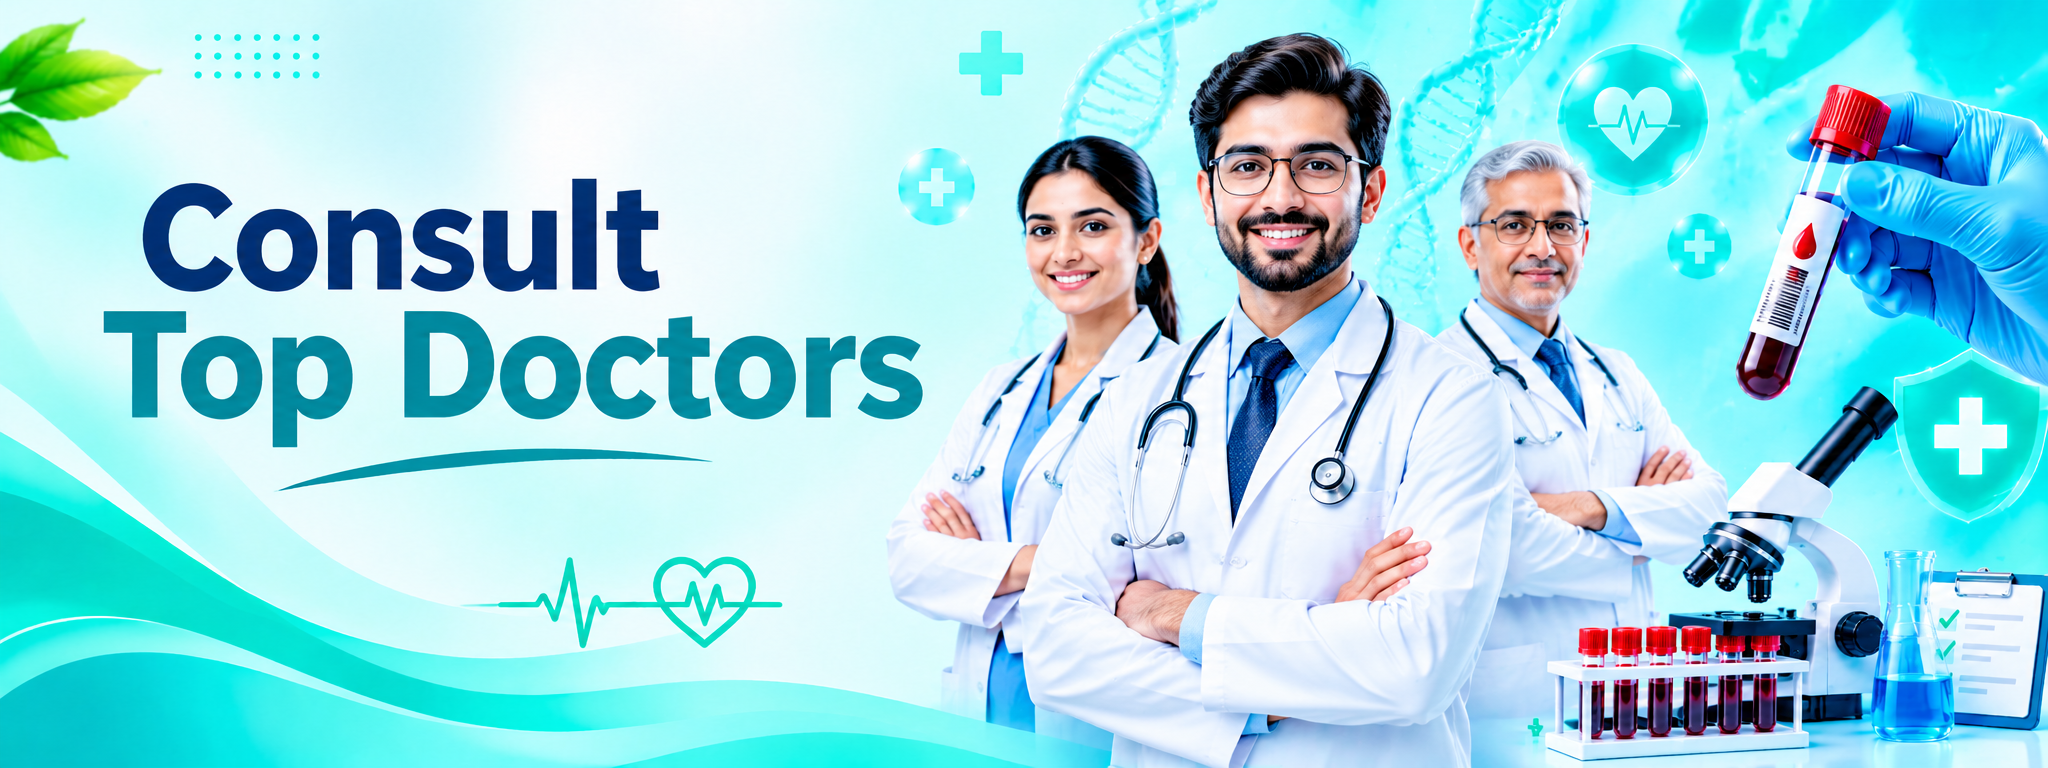
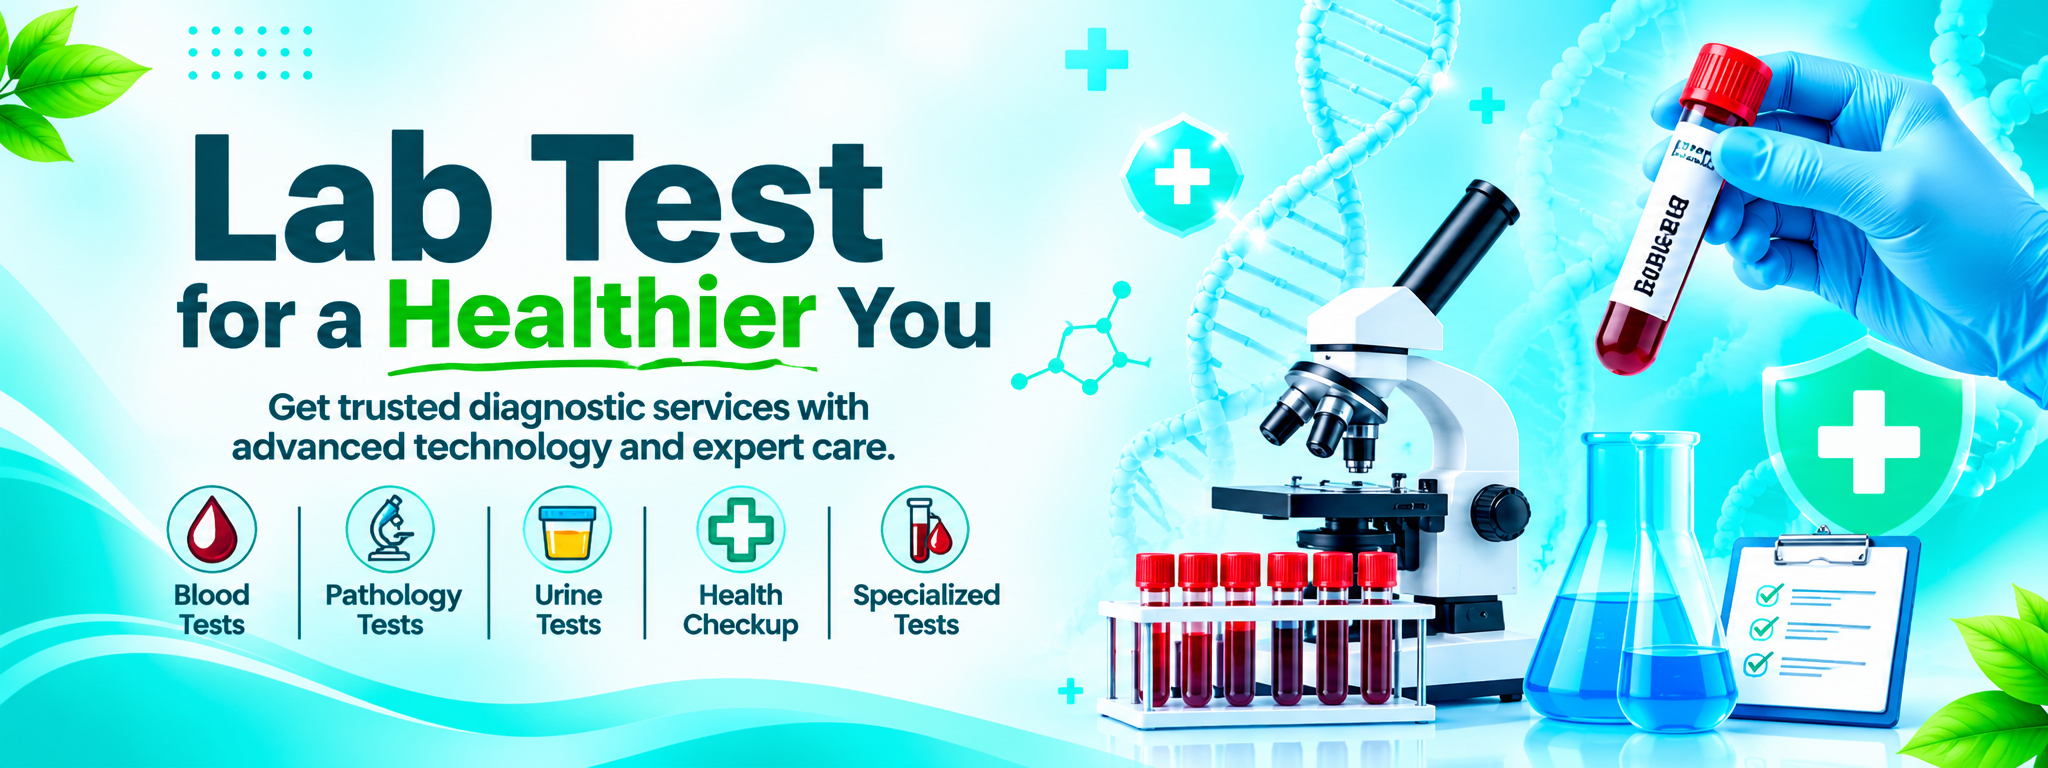
update code

diff --git a/src/pages/Home/HomePage.jsx b/src/pages/Home/HomePage.jsx
@@ -1,4 +1,4 @@
-import React, { useState, useEffect, useRef } from 'react';
+import { useState, useEffect, useRef } from 'react';
 import { Link } from 'react-router-dom';
 import { motion, AnimatePresence } from 'framer-motion';
 import {
@@ -6,13 +6,9 @@ import {
   FaShieldAlt, FaUserMd, FaFlask, FaCapsules, FaCheckCircle
 } from 'react-icons/fa';
 import ProductSlider from '../../components/products/ProductSlider';
-import ProductCard from '../../components/products/ProductCard';
 import QuickViewModal from '../../components/common/QuickViewModal';
 import PopularBrandsSection from '../../components/home/PopularBrandsSection';
 import { useHealthcare } from '../../context/HealthcareContext';
-import { CATEGORIES } from '../Categories/CategoriesPage';
-import { DOCTORS } from '../Doctors/DoctorsPage';
-import { LAB_TESTS } from '../LabTests/LabTestsPage';
 
 // ✅ YAHAN 3 ALAG IMAGES IMPORT KI HAIN
 import HeroImage1 from '../../assets/images/cureonhero-img1.png';
@@ -45,7 +41,7 @@ const SLIDES = [
     ),
     description: 'Genuine medicines and healthcare essentials delivered directly to your doorstep with certified temperature-controlled cold-chain safety.',
     buttonText: 'Shop Medicines',
-    buttonLink: '/products',
+    buttonLink: '/doctors',
     buttonColor: '#159B64',
     bgGradient: 'linear-gradient(90deg, rgba(234, 248, 242, 0.95) 0%, rgba(234, 248, 242, 0.80) 50%, rgba(234, 248, 242, 0) 80%)',
     bgImage: HeroImage1,
@@ -58,7 +54,7 @@ const SLIDES = [
     heading: 'Consult Top Doctors Online Anytime, Anywhere',
     description: 'Connect via encrypted video with experienced physicians, cardiologists, and pediatricians. Receive verified digital prescriptions instantly.',
     buttonText: 'Book Doctor Consultation',
-    buttonLink: '/doctors',
+    buttonLink: '/lab-tests',
     buttonColor: '#08784B',
     bgGradient: 'linear-gradient(90deg, rgba(234, 248, 242, 0.95) 0%, rgba(234, 248, 242, 0.80) 50%, rgba(234, 248, 242, 0) 80%)',
     bgImage: HeroImage2,
@@ -71,7 +67,7 @@ const SLIDES = [
     heading: 'Diagnostics & Lab Tests At Home',
     description: 'Book full-body diagnostic health checkups with 100% sterile home sample collection and verified smart digital reports delivered in 12 hours.',
     buttonText: 'Book Lab Tests',
-    buttonLink: '/lab-tests',
+    buttonLink: '/products ',
     buttonColor: '#159B64',
     bgGradient: 'linear-gradient(90deg, rgba(234, 248, 242, 0.95) 0%, rgba(234, 248, 242, 0.80) 50%, rgba(234, 248, 242, 0) 80%)',
     bgImage: HeroImage3,
